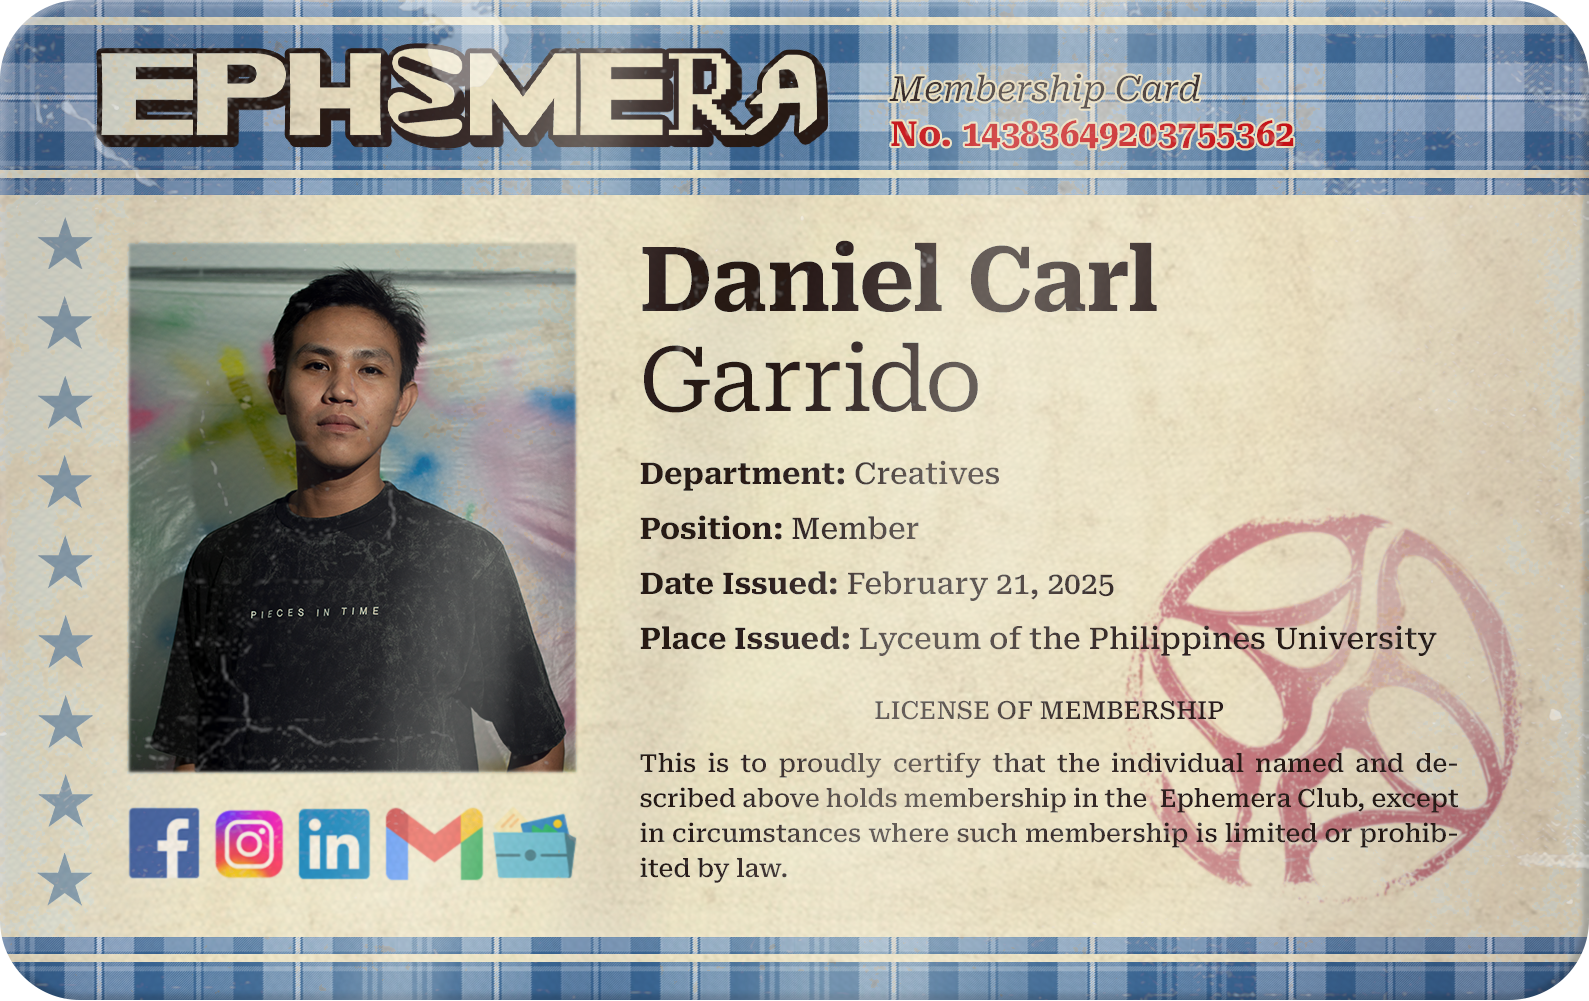
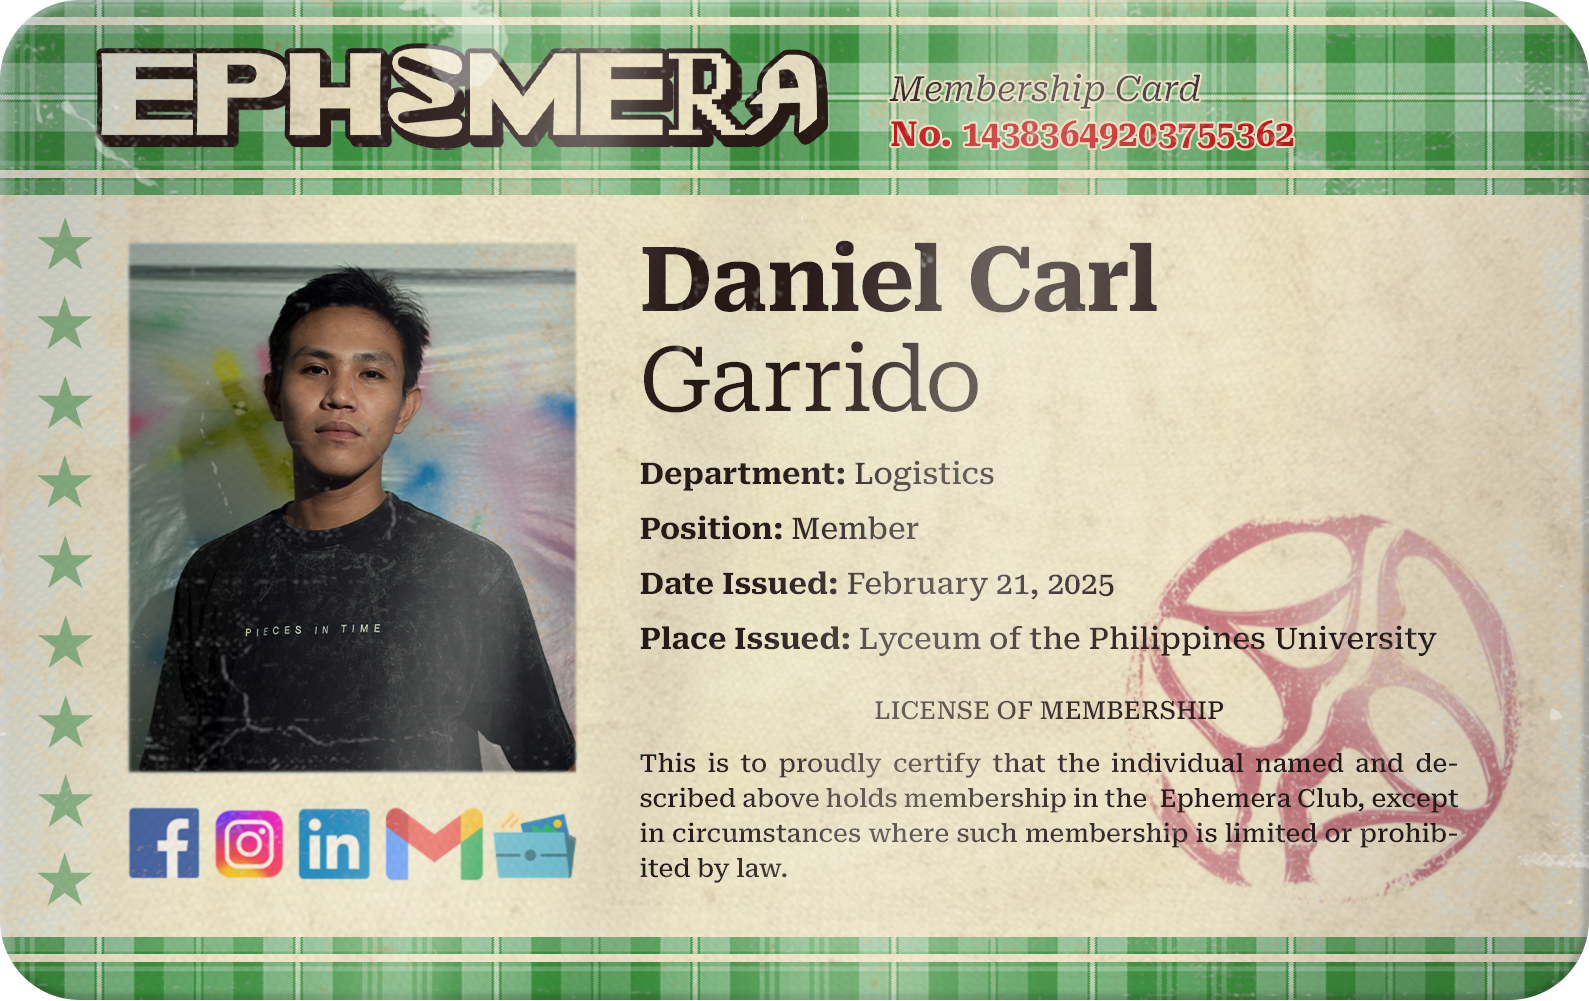
pahabol

diff --git a/team.html b/team.html
@@ -87,7 +87,7 @@
 	</div>
 </div>
 
-<!--14 Creatives-->
+<!--13 Creatives-->
 
 <h1 style="text-align: center; margin-bottom: 1cm; margin-top: 2cm;">CREATIVES</h1>
 
@@ -114,11 +114,6 @@
 	</div>
 	<div class="item">
 		<button class="rotit transparent">
-			<img src="images/REVISED/Garrido/Garrido With Socials.png" style="width: 25vw; margin-bottom: 40px;" class="identity-modal-button" data-modal-target="identityCard15">
-		</button>
-	</div>
-	<div class="item">
-		<button class="rotit transparent">
 			<img src="images/REVISED/Guitierrez/Guitierrez With Socials.png" style="width: 25vw; margin-bottom: 40px;" class="identity-modal-button" data-modal-target="identityCard16">
 		</button>
 	</div>
@@ -137,13 +132,13 @@
 			<img src="images/Creatives/Mandia/Mandia With Socials.png" style="width: 25vw; margin-bottom: 40px;" class="identity-modal-button" data-modal-target="identityCard19">
 		</button>
 	</div>
-</div>
-<div class="container">
 	<div class="item">
 		<button class="rotit transparent">
 			<img src="images/Creatives/Ramos/Ramos With Socials.png" style="width: 25vw; margin-bottom: 40px;" class="identity-modal-button" data-modal-target="identityCard21">
 		</button>
 	</div>
+</div>
+<div class="container">
 	<div class="item">
 		<button class="rotit transparent">
 			<img src="images/Creatives/Ramirez/Ramirez With Socials.png" style="width: 25vw; margin-bottom: 40px;" class="identity-modal-button" data-modal-target="identityCard22">
@@ -275,6 +270,11 @@
 			<img src="images/Logistics/Gabalones/Gabalones With Socials.png" style="width: 25vw; margin-bottom: 40px;" class="identity-modal-button" data-modal-target="identityCard43">
 		</button>
 	</div>
+	<div class="item">
+		<button class="rotit transparent">
+			<img src="images/REVISED/Garrido/Garrido With Socials.png" style="width: 25vw; margin-bottom: 40px;" class="identity-modal-button" data-modal-target="identityCard15">
+		</button>
+	</div>
 	<!-- <div class="item">
 		<button class="rotit transparent">
 			<img src="images/Logistics/" style="width: 25vw; margin-bottom: 40px;" class="identity-modal-button" data-modal-target="identityCard44">
@@ -290,24 +290,19 @@
 			<img src="images/REVISED/Charmaine/Charmaine With Socials.png" style="width: 25vw; margin-bottom: 40px;" class="identity-modal-button" data-modal-target="identityCard46">
 		</button>
 	</div>
+</div>
+<div class="container">
+	<div class="item">
+		<button class="rotit transparent">
+			<img src="images/REVISED/Sengson/Sengson With Socials.png" style="width: 25vw; margin-bottom: 40px;" class="identity-modal-button" data-modal-target="identityCard47">
+		</button>
+	</div>
 	<div class="item">
 		<button class="rotit transparent">
 			<img src="images/Logistics/Villestar/Villestar With Socials.png" style="width: 25vw; margin-bottom: 40px;" class="identity-modal-button" data-modal-target="identityCard48">
 		</button>
 	</div>
 </div>
-<!-- <div class="container">
-	<div class="item">
-		<button class="rotit transparent">
-			<img src="images/Logistics/" style="width: 25vw; margin-bottom: 40px;" class="identity-modal-button" data-modal-target="identityCard47">
-		</button>
-	</div>
-	<div class="item">
-		<button class="rotit transparent">
-			<img src="images/Logistics/Villestar/Villestar With Socials.png" style="width: 25vw; margin-bottom: 40px;" class="identity-modal-button" data-modal-target="identityCard48">
-		</button>
-	</div>
-</div> -->
 
 
 <!--SERAFICA MODAL-->
@@ -1322,10 +1317,10 @@
 	</div>
 </div>
 
-<!-- SENGSON MODAL
+<!-- SENGSON MODAL -->
 <div id="identityCard47" class="teadal hide">
 	<div class="modal-content">
-		<img src="images/Logistics/" class="center" style="width: 50vw;">
+		<img src="images/REVISED/Sengson/Sengson Without.png" class="center" style="width: 50vw;">
 		<a href="https://www.facebook.com/angelica.sengson19" class="rotate" style="top: 33.5vw; left: 28.6vw;">
 			<img src="images/Facebook.png" style="width: 2.5vw;">
 		</a>
@@ -1338,11 +1333,11 @@
 		<button class="rotate transparent" style="top: 33.5vw; left: 37.2vw;">
 			<img src="images/GMail.png" style="width: 3.2vw;" class="description-button" data-target="Logistics10">
 		</button>
-		<a href="" class="rotate" style="top: 33.5vw; left: 41vw;">
+		<a href="https://drive.google.com/drive/folders/1HpNi-qGwJbaYNhFFFvzEXYQPrdvNVp2z" class="rotate" style="top: 33.5vw; left: 41vw;">
 			<img src="images/Portfolio.png" style="width: 2.8vw;">
 		</a>
 	</div>
-</div> -->
+</div>
 
 <!-- VILLESTAR MODAL -->
 <div id="identityCard48" class="teadal hide">
